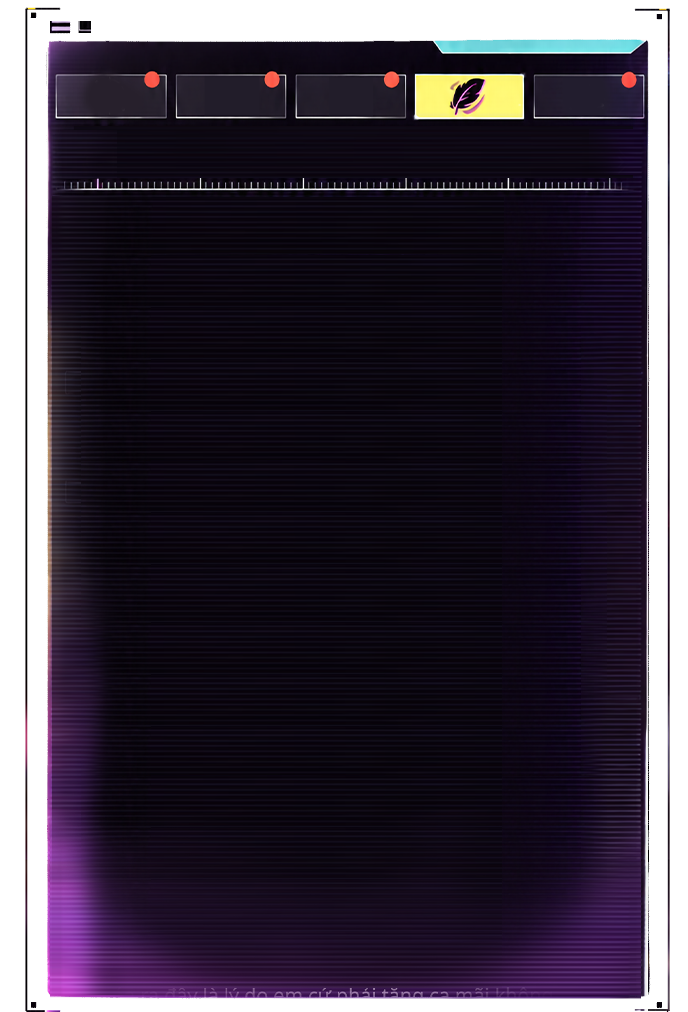
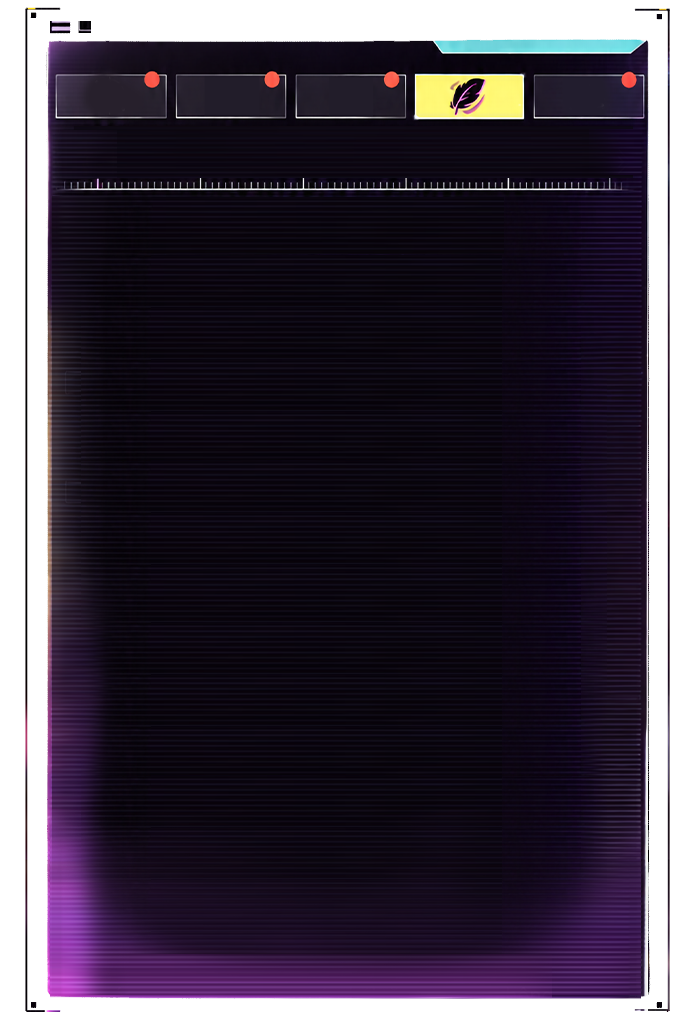
chỉnh sửa nội dung d02 và nền

Changed region(s): [[0.2442, 0.919, 0.7936, 1.0]]

diff --git a/script.js b/script.js
@@ -18,15 +18,14 @@ const DATA = {
   1: {
     title: "Một Thành Phố Khác",
     lines: [
-      ["mc", "Cửa sổ vát góc, tủ lưu trữ màu xám, rồi cả mấy cỗ máy không rõ tên nữa..."],
-      ["mc", "Nơi được tái hiện trong khối cầu ký ức này là ở đâu vậy nhỉ?"],
-      ["xavier", "Chắc là một văn phòng."],
-      ["xavier", "Khung cửa sổ chữ L kết hợp với độ cao của tòa nhà có thể quan sát rộng hơn."],
-      ["xavier", "Còn về phần mấy món vũ khí đặt trên bàn và dãy tủ lưu trữ lớn dọc theo tường..."],
-      ["xavier", "Văn phòng này khả năng cao là của lực lượng hành pháp của thành phố."],
-      ["mc", "Anh quan sát tỉ mỉ thật đó. Ngay cả vụ góc nhìn rộng mà anh cũng để ý tới nữa!"],
-      ["xavier", "Góc nhìn đắc địa không chỉ giúp ích để truy bắt tội phạm thôi đâu."],
-      ["xavier", "Nó còn rất hợp để tăm tia xem tan làm nên đi ăn khuya ở đâu nữa."],
+      ["ml", "Dù được chế tạo từ những vật liệu tiên tiến, vũ khí của họ cũng chẳng có gì đặc biệt. Chán thật đấy."],
+      ["mc", "Có khi nào thế giới này ổn định đến mức chẳng cần đến vũ khí tối tân không?"],
+      ["ml", "Đèn đuốc thành phố sáng trưng, vậy mà ngay góc phố đã là những khu ổ chuột. Nước bẩn ở khắp nơi, người dân thì sống chen chúc nhau."],
+      ["ml", "Sự chênh lệch như thế chính là mảnh đất màu mỡ cho bạo lực sinh sôi."],
+      ["mc", "Nghe có vẻ khá giống Khu N109 nhỉ."],
+      ["ml", "Không cháy nổ, không đấu súng, đến một tay buôn vũ khí cũng chẳng thấy đâu."],
+      ["ml", "Quan trọng hơn, nơi này còn thiếu một người nào đó suốt ngày thích ra lệnh cho anh."],
+      ["ml", "Nếu Khu N109 cũng nhàm chán đến thế, Onychinus đã chuyển địa bàn từ lâu rồi."],
     ],
   },
   2: {
